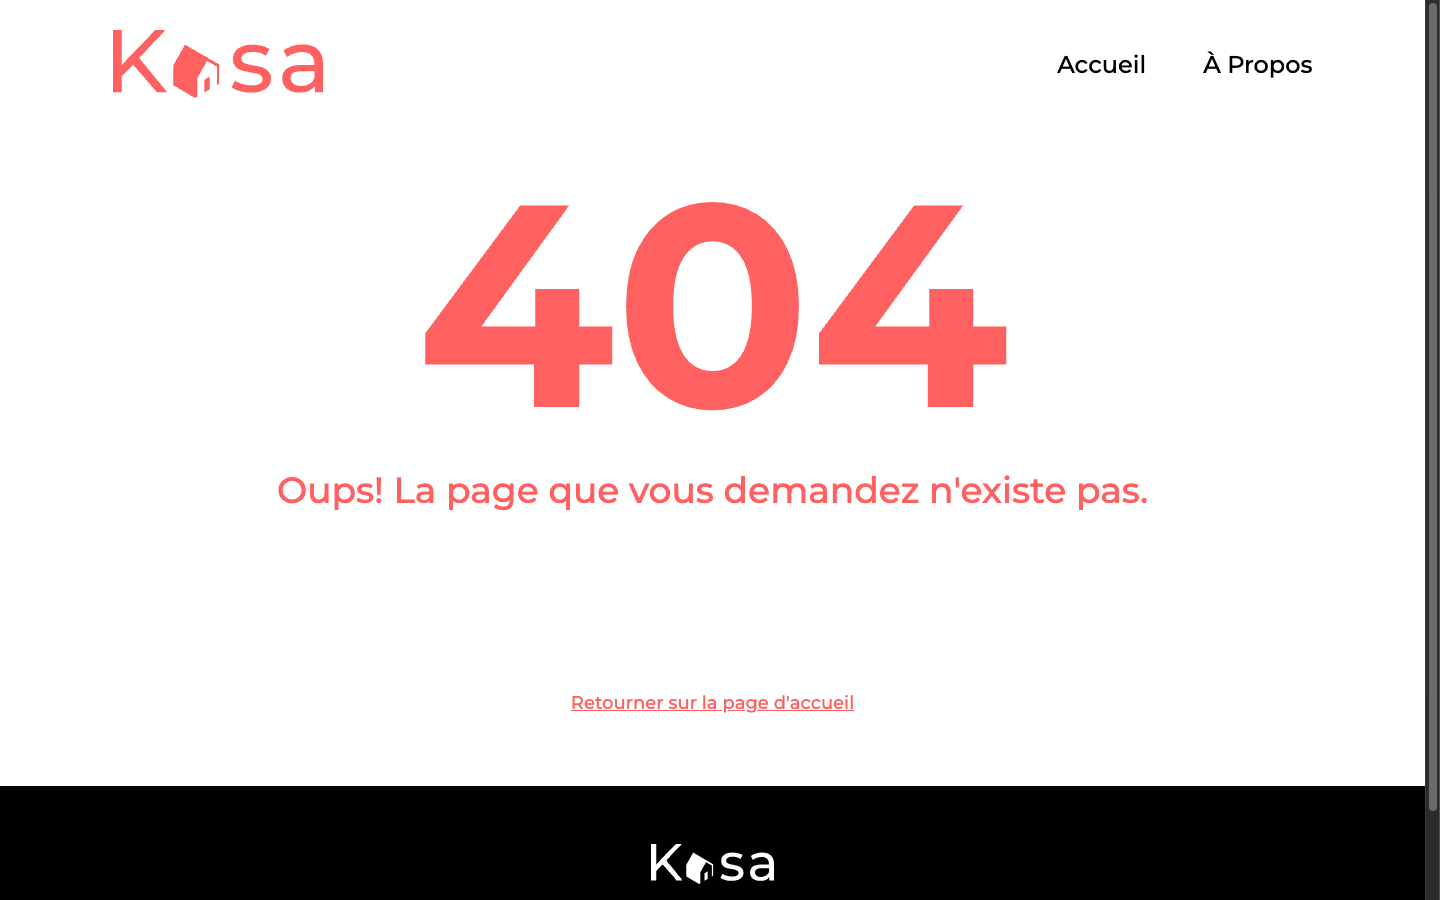
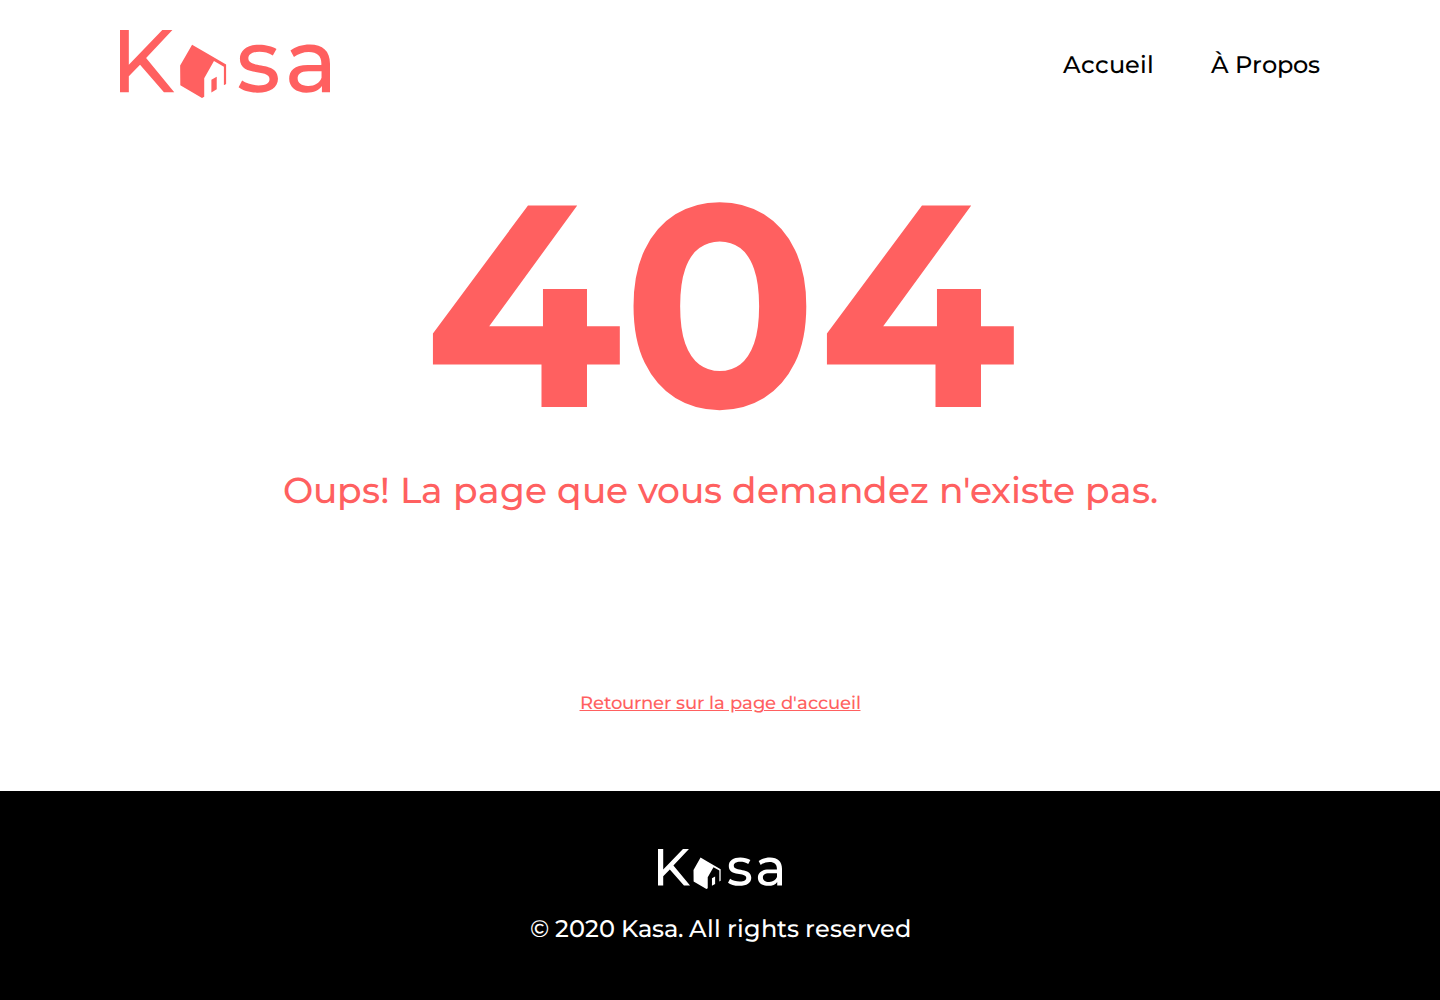
docs: refresh the README and screenshots
Describe the stack, the local launch, and the test commands. Replace the preview images with captures from the running app.

diff --git a/README.md b/README.md
@@ -6,84 +6,208 @@ Application web de location de logements entre particuliers (React + Express).
 
 Peer-to-peer housing rental web app (React + Express).
 
----
-
 ## Français
 
-### Contexte
+### Description
 
-Kasa est une plateforme fictive de location d’appartements, réalisée dans le cadre de la formation **Testeur Logiciel** (OpenClassrooms).  
-L’objectif est d’implémenter le front-end en respectant les maquettes Figma et les contraintes du brief, en consommant les données via l’API back-end fournie.
+Kasa affiche un catalogue de logements. La page d'accueil liste les annonces. Chaque fiche montre la galerie, les tags, la note, l'hôte, la description et les équipements. Le site a aussi une page À propos et une page 404. L'interface est en français.
 
-- **Guidelines :** [Coding guidelines Kasa](https://course.oc-static.com/projects/Front-End+V2/P9+React+1/Coding+guidelines+Kasa+FR.pdf)
-- **Maquettes :** [UI Design Kasa (Figma)](https://www.figma.com/file/bAnXDNqRKCRRP8mY2gcb5p/UI-Design-Kasa-FR?node-id=4%3A1)
+Maquettes : [UI Design Kasa (Figma)](https://www.figma.com/file/bAnXDNqRKCRRP8mY2gcb5p/UI-Design-Kasa-FR?node-id=4%3A1)
 
 ### Stack
 
-- React (front)
-- Express (API / données)
-- CSS responsive
-- React Router
-
-### Fonctionnalités principales
-
-- Page d’accueil avec grille des logements
-- Page logement (galerie, tags, notes, collapses)
-- À propos
-- Page 404
-- Layout commun (header / footer)
-
-### Aperçu
-
-![Page d'accueil — grille des logements](docs/screenshots/accueil.png)
+- Node.js 26 (version dans `.nvmrc`)
+- Interface : React 19, TypeScript, Vite, React Router
+- API : Express, Helmet
+- Qualité : ESLint avec typescript-eslint (règles type-checked), Vitest, Testing Library, Supertest, Playwright
 
 ### Lancer le projet
 
-```bash
-# front
-npm install
-npm start
+Il faut Node.js 26.13.0 et npm. Depuis la racine du dépôt :
 
-# back (selon le brief OC fourni avec le projet)
+```bash
+nvm use
 ```
 
----
+Terminal 1, l'API :
+
+```bash
+cd backend
+npm ci
+npm run dev
+```
+
+L'API écoute sur http://127.0.0.1:8080.
+
+Terminal 2, l'interface :
+
+```bash
+cd frontend
+npm ci
+npm run dev
+```
+
+Ouvrir http://127.0.0.1:5173. En développement, Vite transmet les requêtes `/api` à l'API locale.
+
+Pour servir un build, lancer l'API puis l'interface. Sans variable `VITE_API_URL` au moment du build, le navigateur appelle `http://localhost:8080`.
+
+```bash
+cd backend
+npm ci
+npm run build
+npm start
+```
+
+```bash
+cd frontend
+npm ci
+npm run build
+npm run preview
+```
+
+Vite indique l'URL de preview (port 4173 par défaut).
+
+### Tests
+
+Backend :
+
+```bash
+cd backend
+npm run lint
+npm run typecheck
+npm run test:coverage
+npm run build
+```
+
+Frontend :
+
+```bash
+cd frontend
+npm run lint
+npm run typecheck
+npm run test:coverage
+npx playwright install --with-deps chromium
+npm run test:e2e
+npm run build
+```
+
+`npm run test:coverage` exécute les tests et échoue si la couverture de lignes descend sous 90 %. Le smoke test Playwright ouvre l'accueil, une fiche, la page À propos et une URL inconnue.
+
+À chaque push sur `main`, GitHub Actions enchaîne le lint, le typecheck, les tests, le seuil de couverture, le build et le smoke test.
+
+### Aperçu
+
+![Page d'accueil, grille des logements](docs/screenshots/accueil.png)
+
+![Fiche d'un logement](docs/screenshots/logement.png)
+
+![Page À propos](docs/screenshots/a-propos.png)
+
+![Page 404](docs/screenshots/404.png)
+
+### Licence
+
+MIT
 
 ## English
 
-### Context
+### Description
 
-Kasa is a fictional peer-to-peer apartment rental platform, built as part of the **Software Tester** track (OpenClassrooms).  
-The goal is to implement the front-end against Figma designs and brief constraints, consuming data from the provided back-end API.
+Kasa shows a housing catalogue. The home page lists the rentals. Each listing page shows the gallery, tags, rating, host, description, and amenities. The site also has an about page and a 404 page. The interface is in French.
 
-- **Guidelines:** [Coding guidelines Kasa](https://course.oc-static.com/projects/Front-End+V2/P9+React+1/Coding+guidelines+Kasa+FR.pdf)
-- **Designs:** [UI Design Kasa (Figma)](https://www.figma.com/file/bAnXDNqRKCRRP8mY2gcb5p/UI-Design-Kasa-FR?node-id=4%3A1)
+Designs: [UI Design Kasa (Figma)](https://www.figma.com/file/bAnXDNqRKCRRP8mY2gcb5p/UI-Design-Kasa-FR?node-id=4%3A1)
 
 ### Stack
 
-- React (front-end)
-- Express (API / data)
-- Responsive CSS
-- React Router
-
-### Main features
-
-- Home page with housing grid
-- Housing page (gallery, tags, ratings, collapses)
-- About page
-- 404 page
-- Shared layout (header / footer)
-
-### Preview
-
-![Home page — housing grid](docs/screenshots/accueil.png)
+- Node.js 26 (version pinned in `.nvmrc`)
+- UI: React 19, TypeScript, Vite, React Router
+- API: Express, Helmet
+- Quality: ESLint with typescript-eslint (type-checked rules), Vitest, Testing Library, Supertest, Playwright
 
 ### Run the project
 
-```bash
-# front-end
-npm install
-npm start
+Node.js 26.13.0 and npm are required. From the repository root:
 
-# back-end (per the OpenClassrooms project brief)
+```bash
+nvm use
 ```
+
+Terminal 1, the API:
+
+```bash
+cd backend
+npm ci
+npm run dev
+```
+
+The API listens on http://127.0.0.1:8080.
+
+Terminal 2, the UI:
+
+```bash
+cd frontend
+npm ci
+npm run dev
+```
+
+Open http://127.0.0.1:5173. During development, Vite forwards `/api` requests to the local API.
+
+To serve a build, start the API, then the UI. Unless `VITE_API_URL` is set at build time, the browser calls `http://localhost:8080`.
+
+```bash
+cd backend
+npm ci
+npm run build
+npm start
+```
+
+```bash
+cd frontend
+npm ci
+npm run build
+npm run preview
+```
+
+Vite prints the preview URL (port 4173 by default).
+
+### Tests
+
+Backend:
+
+```bash
+cd backend
+npm run lint
+npm run typecheck
+npm run test:coverage
+npm run build
+```
+
+Frontend:
+
+```bash
+cd frontend
+npm run lint
+npm run typecheck
+npm run test:coverage
+npx playwright install --with-deps chromium
+npm run test:e2e
+npm run build
+```
+
+`npm run test:coverage` runs the tests and fails if line coverage drops below 90%. The Playwright smoke test opens the home page, a listing, the about page, and an unknown URL.
+
+On every push to `main`, GitHub Actions runs lint, typecheck, tests, the coverage gate, the build, and the smoke test.
+
+### Preview
+
+![Home page, housing grid](docs/screenshots/accueil.png)
+
+![A housing page](docs/screenshots/logement.png)
+
+![About page](docs/screenshots/a-propos.png)
+
+![404 page](docs/screenshots/404.png)
+
+### License
+
+MIT
